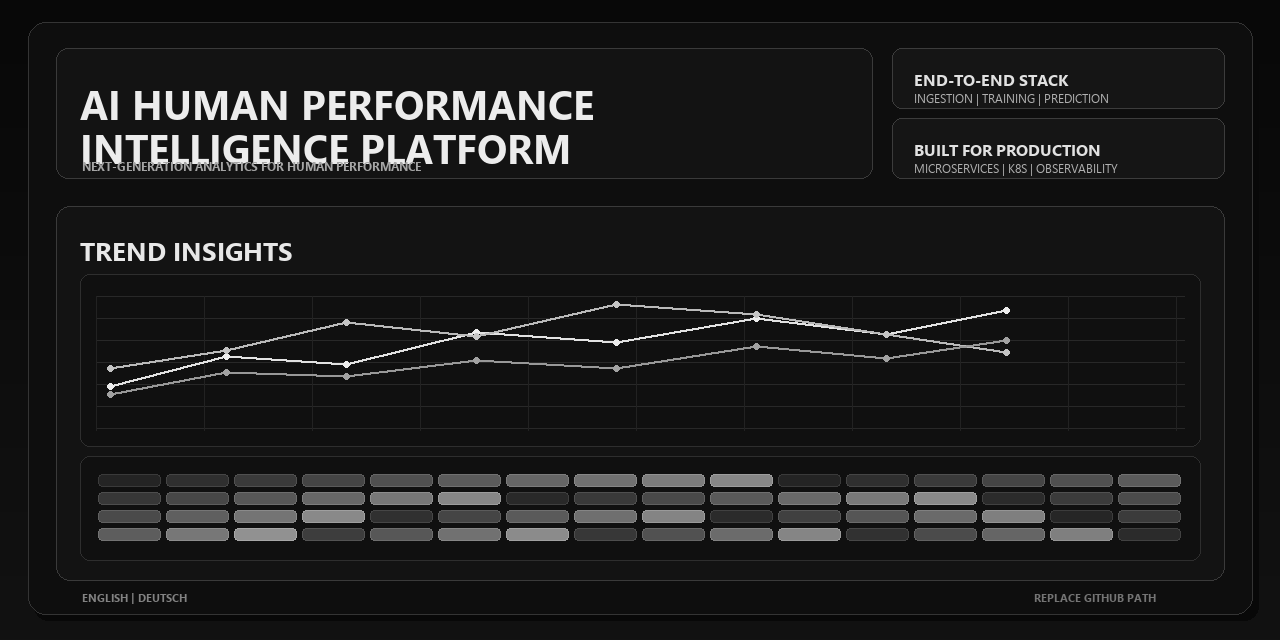
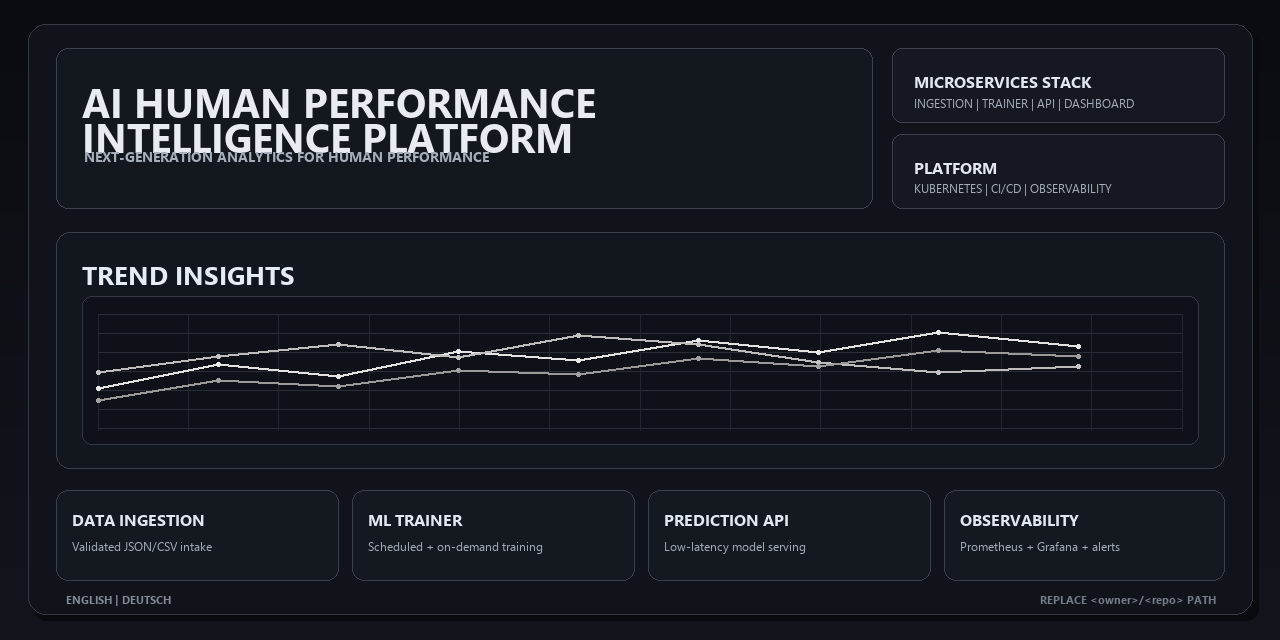
Rebuild project visuals from scratch with a clean dark design.
Replace the previous banner and GIF with a new layout focused on the platform workflow while keeping typography spacing safe to prevent text overlap.

diff --git a/scripts/generate_customer_support_assets.py b/scripts/generate_customer_support_assets.py
@@ -1,5 +1,6 @@
 from __future__ import annotations
 
+import math
 from pathlib import Path
 from PIL import Image, ImageDraw, ImageFont
 
@@ -22,47 +23,38 @@ def load_font(size: int, bold: bool = False):
     return ImageFont.load_default()
 
 
-def gray(v: int) -> tuple[int, int, int]:
-    return (v, v, v)
-
-
 def lerp(a: int, b: int, t: float) -> int:
     return int(a + (b - a) * t)
 
 
-def gradient(size: tuple[int, int], top: int, bottom: int) -> Image.Image:
+def gradient(size: tuple[int, int], top: tuple[int, int, int], bottom: tuple[int, int, int]) -> Image.Image:
     w, h = size
-    img = Image.new("RGB", size)
-    px = img.load()
+    image = Image.new("RGB", size)
+    px = image.load()
     for y in range(h):
-        value = lerp(top, bottom, y / max(h - 1, 1))
-        c = gray(value)
+        t = y / max(1, h - 1)
+        c = (
+            lerp(top[0], bottom[0], t),
+            lerp(top[1], bottom[1], t),
+            lerp(top[2], bottom[2], t),
+        )
         for x in range(w):
             px[x, y] = c
-    return img
+    return image
 
 
-def rounded(draw: ImageDraw.ImageDraw, box, radius=14, fill=None, outline=None, width=1):
+def rounded(draw: ImageDraw.ImageDraw, box, radius=12, fill=None, outline=None, width=1):
     draw.rounded_rectangle(box, radius=radius, fill=fill, outline=outline, width=width)
 
 
-def shadow(draw: ImageDraw.ImageDraw, box, offset=5):
+def shadow(draw: ImageDraw.ImageDraw, box, offset=4):
     x1, y1, x2, y2 = box
-    rounded(draw, (x1 + offset, y1 + offset, x2 + offset, y2 + offset), radius=14, fill=gray(8))
+    rounded(draw, (x1 + offset, y1 + offset, x2 + offset, y2 + offset), radius=12, fill=(8, 10, 14))
 
 
-def draw_line_graph(draw: ImageDraw.ImageDraw, box, tone: int, variant: int = 0):
-    x1, y1, x2, y2 = box
-    if variant == 0:
-        points = [(x1 + 14, y2 - 44), (x1 + 130, y2 - 74), (x1 + 250, y2 - 66), (x1 + 380, y2 - 98), (x1 + 520, y2 - 88), (x1 + 660, y2 - 112), (x1 + 790, y2 - 96), (x1 + 910, y2 - 120)]
-    elif variant == 1:
-        points = [(x1 + 14, y2 - 62), (x1 + 130, y2 - 80), (x1 + 250, y2 - 108), (x1 + 380, y2 - 94), (x1 + 520, y2 - 126), (x1 + 660, y2 - 116), (x1 + 790, y2 - 96), (x1 + 910, y2 - 78)]
-    else:
-        points = [(x1 + 14, y2 - 36), (x1 + 130, y2 - 58), (x1 + 250, y2 - 54), (x1 + 380, y2 - 70), (x1 + 520, y2 - 62), (x1 + 660, y2 - 84), (x1 + 790, y2 - 72), (x1 + 910, y2 - 90)]
-
-    draw.line(points, fill=gray(tone), width=3)
-    for p in points:
-        draw.ellipse((p[0] - 3, p[1] - 3, p[0] + 3, p[1] + 3), fill=gray(min(242, tone + 10)))
+def text_h(draw: ImageDraw.ImageDraw, text: str, font) -> int:
+    bbox = draw.textbbox((0, 0), text, font=font)
+    return bbox[3] - bbox[1]
 
 
 def draw_heatmap(draw: ImageDraw.ImageDraw, box):
@@ -75,126 +67,171 @@ def draw_heatmap(draw: ImageDraw.ImageDraw, box):
             tone = 36 + ((r * 19 + c * 11 + r * c * 5) % 110)
             cx1 = x1 + c * (cell_w + gap)
             cy1 = y1 + r * (cell_h + gap)
-            rounded(draw, (cx1, cy1, cx1 + cell_w, cy1 + cell_h), radius=4, fill=gray(tone), outline=gray(min(210, tone + 22)), width=1)
+            rounded(
+                draw,
+                (cx1, cy1, cx1 + cell_w, cy1 + cell_h),
+                radius=4,
+                fill=(tone, tone, tone),
+                outline=(min(210, tone + 22),) * 3,
+                width=1,
+            )
 
 
-def generate_banner() -> None:
-    img = gradient((1280, 640), 8, 18)
+def draw_banner() -> None:
+    img = gradient((1280, 640), (10, 12, 17), (18, 21, 28))
     draw = ImageDraw.Draw(img)
 
-    shadow(draw, (28, 22, 1252, 614), offset=6)
-    rounded(draw, (28, 22, 1252, 614), radius=18, fill=gray(14), outline=gray(52), width=1)
+    outer = (28, 24, 1252, 614)
+    shadow(draw, outer, offset=6)
+    rounded(draw, outer, radius=18, fill=(16, 19, 25), outline=(52, 57, 66), width=1)
 
-    rounded(draw, (56, 48, 872, 178), radius=12, fill=gray(19), outline=gray(58), width=1)
-    draw.text((80, 76), "AI HUMAN PERFORMANCE", font=load_font(40, bold=True), fill=gray(236))
-    draw.text((80, 120), "INTELLIGENCE PLATFORM", font=load_font(40, bold=True), fill=gray(236))
-    draw.text((82, 158), "NEXT-GENERATION ANALYTICS FOR HUMAN PERFORMANCE", font=load_font(12, bold=True), fill=gray(165))
+    title_panel = (56, 48, 872, 208)
+    rounded(draw, title_panel, radius=12, fill=(19, 23, 30), outline=(60, 66, 76), width=1)
+    title_font = load_font(40, bold=True)
+    sub_font = load_font(14, bold=True)
 
-    rounded(draw, (892, 48, 1224, 108), radius=10, fill=gray(21), outline=gray(60), width=1)
-    rounded(draw, (892, 118, 1224, 178), radius=10, fill=gray(21), outline=gray(60), width=1)
-    draw.text((914, 68), "END-TO-END STACK", font=load_font(16, bold=True), fill=gray(225))
-    draw.text((914, 90), "INGESTION | TRAINING | PREDICTION", font=load_font(12), fill=gray(176))
-    draw.text((914, 138), "BUILT FOR PRODUCTION", font=load_font(16, bold=True), fill=gray(225))
-    draw.text((914, 160), "MICROSERVICES | K8S | OBSERVABILITY", font=load_font(12), fill=gray(176))
+    y = 74
+    for line in ["AI HUMAN PERFORMANCE", "INTELLIGENCE PLATFORM"]:
+        draw.text((82, y), line, font=title_font, fill=(232, 236, 242))
+        y += text_h(draw, line, title_font) + 6
+    subtitle = "NEXT-GENERATION ANALYTICS FOR HUMAN PERFORMANCE"
+    draw.text((84, y + 2), subtitle, font=sub_font, fill=(166, 174, 186))
 
-    rounded(draw, (56, 206, 1224, 580), radius=14, fill=gray(19), outline=gray(58), width=1)
-    draw.text((80, 232), "TREND INSIGHTS", font=load_font(26, bold=True), fill=gray(232))
-    rounded(draw, (80, 274, 1200, 446), radius=10, fill=gray(16), outline=gray(46), width=1)
+    info1 = (892, 48, 1224, 122)
+    info2 = (892, 134, 1224, 208)
+    for panel in (info1, info2):
+        rounded(draw, panel, radius=10, fill=(21, 24, 32), outline=(60, 66, 76), width=1)
 
+    draw.text((914, 70), "MICROSERVICES STACK", font=load_font(16, bold=True), fill=(226, 232, 240))
+    draw.text((914, 95), "INGESTION | TRAINER | API | DASHBOARD", font=load_font(12), fill=(165, 174, 186))
+    draw.text((914, 156), "PLATFORM", font=load_font(16, bold=True), fill=(226, 232, 240))
+    draw.text((914, 180), "KUBERNETES | CI/CD | OBSERVABILITY", font=load_font(12), fill=(165, 174, 186))
+
+    trend = (56, 232, 1224, 468)
+    rounded(draw, trend, radius=14, fill=(18, 22, 29), outline=(58, 64, 74), width=1)
+    draw.text((82, 256), "TREND INSIGHTS", font=load_font(26, bold=True), fill=(230, 236, 244))
+
+    chart_box = (82, 296, 1198, 444)
+    rounded(draw, chart_box, radius=10, fill=(14, 17, 23), outline=(50, 56, 66), width=1)
+
+    cx1, cy1, cx2, cy2 = 98, 314, 1182, 430
     for i in range(7):
-        y = 296 + i * 22
-        draw.line((96, y, 1184, y), fill=gray(40), width=1)
-    for i in range(11):
-        x = 96 + i * 108
-        draw.line((x, 296, x, 430), fill=gray(34), width=1)
+        y_grid = cy1 + i * 19
+        draw.line((cx1, y_grid, cx2, y_grid), fill=(40, 45, 54), width=1)
+    for i in range(13):
+        x_grid = cx1 + int((cx2 - cx1) * i / 12)
+        draw.line((x_grid, cy1, x_grid, cy2), fill=(34, 39, 47), width=1)
 
-    draw_line_graph(draw, (96, 296, 1184, 430), 226, 0)
-    draw_line_graph(draw, (96, 296, 1184, 430), 186, 1)
-    draw_line_graph(draw, (96, 296, 1184, 430), 152, 2)
+    line1 = [(cx1 + 0, cy2 - 42), (cx1 + 120, cy2 - 66), (cx1 + 240, cy2 - 54), (cx1 + 360, cy2 - 79), (cx1 + 480, cy2 - 70), (cx1 + 600, cy2 - 90), (cx1 + 720, cy2 - 78), (cx1 + 840, cy2 - 98), (cx1 + 980, cy2 - 84)]
+    line2 = [(cx1 + 0, cy2 - 58), (cx1 + 120, cy2 - 74), (cx1 + 240, cy2 - 86), (cx1 + 360, cy2 - 73), (cx1 + 480, cy2 - 95), (cx1 + 600, cy2 - 86), (cx1 + 720, cy2 - 68), (cx1 + 840, cy2 - 58), (cx1 + 980, cy2 - 64)]
+    line3 = [(cx1 + 0, cy2 - 30), (cx1 + 120, cy2 - 50), (cx1 + 240, cy2 - 44), (cx1 + 360, cy2 - 60), (cx1 + 480, cy2 - 56), (cx1 + 600, cy2 - 72), (cx1 + 720, cy2 - 64), (cx1 + 840, cy2 - 80), (cx1 + 980, cy2 - 74)]
+    for points, tone in [(line1, 226), (line2, 188), (line3, 154)]:
+        draw.line(points, fill=(tone, tone, tone), width=3)
+        for p in points:
+            draw.ellipse((p[0] - 2, p[1] - 2, p[0] + 2, p[1] + 2), fill=(min(240, tone + 8),) * 3)
 
-    rounded(draw, (80, 456, 1200, 560), radius=10, fill=gray(16), outline=gray(46), width=1)
-    draw_heatmap(draw, (98, 474, 1182, 542))
-    draw.text((82, 590), "ENGLISH | DEUTSCH", font=load_font(11, bold=True), fill=gray(130))
-    draw.text((1034, 590), "REPLACE GITHUB PATH", font=load_font(11, bold=True), fill=gray(116))
+    modules = [(56, 490, 338, 580), (352, 490, 634, 580), (648, 490, 930, 580), (944, 490, 1224, 580)]
+    labels = [("DATA INGESTION", "Validated JSON/CSV intake"), ("ML TRAINER", "Scheduled + on-demand training"), ("PREDICTION API", "Low-latency model serving"), ("OBSERVABILITY", "Prometheus + Grafana + alerts")]
+    for panel, (head, body) in zip(modules, labels):
+        rounded(draw, panel, radius=12, fill=(20, 24, 31), outline=(58, 64, 74), width=1)
+        draw.text((panel[0] + 16, panel[1] + 18), head, font=load_font(16, bold=True), fill=(226, 232, 240))
+        draw.text((panel[0] + 16, panel[1] + 48), body, font=load_font(12), fill=(166, 174, 186))
+
+    draw.text((66, 592), "ENGLISH | DEUTSCH", font=load_font(11, bold=True), fill=(130, 138, 150))
+    draw.text((1040, 592), "REPLACE <owner>/<repo> PATH", font=load_font(11, bold=True), fill=(116, 124, 136))
 
     img.save(ASSETS / "banner.png", format="PNG")
 
 
-def dashboard_slide(title: str, subtitle: str, metrics: list[tuple[str, str]], variant: int) -> Image.Image:
-    img = gradient((1280, 720), 8, 18)
+def draw_metric_card(draw: ImageDraw.ImageDraw, x: int, label: str, value: str):
+    panel = (x, 154, x + 274, 286)
+    rounded(draw, panel, radius=12, fill=(21, 25, 32), outline=(60, 66, 76), width=1)
+    draw.text((x + 16, 178), label.upper(), font=load_font(14, bold=True), fill=(166, 174, 186))
+    draw.text((x + 16, 220), value, font=load_font(36, bold=True), fill=(232, 236, 242))
+
+
+def gif_frame(step: int, total: int) -> Image.Image:
+    img = gradient((1280, 720), (9, 12, 18), (18, 21, 28))
     draw = ImageDraw.Draw(img)
 
-    shadow(draw, (30, 22, 1248, 694), offset=6)
-    rounded(draw, (30, 22, 1248, 694), radius=16, fill=gray(14), outline=gray(54), width=1)
+    outer = (30, 22, 1248, 694)
+    shadow(draw, outer, offset=6)
+    rounded(draw, outer, radius=16, fill=(16, 19, 25), outline=(54, 60, 70), width=1)
 
-    # Title without emoji, matching the "remove emoji" baseline.
-    rounded(draw, (58, 44, 1220, 126), radius=12, fill=gray(19), outline=gray(58), width=1)
-    draw.text((84, 68), title, font=load_font(42, bold=True), fill=gray(236))
-    draw.text((86, 108), subtitle, font=load_font(20), fill=gray(168))
+    rounded(draw, (58, 44, 1220, 126), radius=12, fill=(19, 23, 30), outline=(60, 66, 76), width=1)
+    draw.text((84, 68), "AI HUMAN PERFORMANCE DASHBOARD", font=load_font(42, bold=True), fill=(232, 236, 242))
 
-    x = 66
-    for label, value in metrics:
-        rounded(draw, (x, 152, x + 276, 286), radius=14, fill=gray(22), outline=gray(60), width=1)
-        draw.text((x + 18, 178), label.upper(), font=load_font(14, bold=True), fill=gray(166))
-        draw.text((x + 18, 220), value, font=load_font(36, bold=True), fill=gray(236))
-        x += 294
+    phase = step / max(1, total - 1)
+    predictions = 5124 + int(phase * 86)
+    score = 89.1 + 0.4 * math.sin(phase * math.pi * 2.0)
+    active = 150 + int(phase * 6)
 
-    rounded(draw, (66, 314, 1214, 668), radius=14, fill=gray(18), outline=gray(56), width=1)
-    draw.text((92, 340), "Trend Overview", font=load_font(24, bold=True), fill=gray(228))
-    graph_box = (92, 380, 1188, 566)
-    rounded(draw, graph_box, radius=10, fill=gray(15), outline=gray(44), width=1)
+    draw_metric_card(draw, 66, "Total Predictions", f"{predictions:,}")
+    draw_metric_card(draw, 356, "Latest Score", f"{score:.1f}")
+    draw_metric_card(draw, 646, "Active Subjects", f"{active}+")
+    draw_metric_card(draw, 936, "Model Version", "v2.1")
 
-    gx1, gy1, gx2, gy2 = 108, 396, 1172, 550
+    rounded(draw, (66, 314, 914, 668), radius=14, fill=(18, 22, 29), outline=(56, 62, 72), width=1)
+    draw.text((92, 340), "Trend Overview", font=load_font(24, bold=True), fill=(228, 234, 242))
+
+    chart = (92, 378, 888, 544)
+    rounded(draw, chart, radius=10, fill=(14, 17, 23), outline=(48, 54, 64), width=1)
+    gx1, gy1, gx2, gy2 = 108, 394, 872, 528
     for i in range(7):
-        y = gy1 + i * 22
-        draw.line((gx1, y, gx2, y), fill=gray(40), width=1)
-    for i in range(13):
-        x_grid = gx1 + int((gx2 - gx1) * i / 12)
-        draw.line((x_grid, gy1, x_grid, gy2), fill=gray(34), width=1)
+        y_grid = gy1 + i * 22
+        draw.line((gx1, y_grid, gx2, y_grid), fill=(40, 45, 54), width=1)
+    for i in range(11):
+        x_grid = gx1 + int((gx2 - gx1) * i / 10)
+        draw.line((x_grid, gy1, x_grid, gy2), fill=(34, 39, 47), width=1)
 
-    draw_line_graph(draw, (gx1, gy1, gx2, gy2), 226, variant)
-    draw_line_graph(draw, (gx1, gy1, gx2, gy2), 190, (variant + 1) % 3)
-    draw_line_graph(draw, (gx1, gy1, gx2, gy2), 156, (variant + 2) % 3)
+    offset = int(phase * 22)
+    p1 = [(gx1 + 0, gy2 - 44 + offset // 8), (gx1 + 86, gy2 - 66), (gx1 + 172, gy2 - 58), (gx1 + 258, gy2 - 82), (gx1 + 344, gy2 - 76), (gx1 + 430, gy2 - 94), (gx1 + 516, gy2 - 82), (gx1 + 602, gy2 - 102), (gx1 + 688, gy2 - 90), (gx1 + 764, gy2 - 108 + offset // 10)]
+    p2 = [(gx1 + 0, gy2 - 62), (gx1 + 86, gy2 - 78), (gx1 + 172, gy2 - 88), (gx1 + 258, gy2 - 76), (gx1 + 344, gy2 - 96), (gx1 + 430, gy2 - 88), (gx1 + 516, gy2 - 72), (gx1 + 602, gy2 - 62), (gx1 + 688, gy2 - 66), (gx1 + 764, gy2 - 58)]
+    p3 = [(gx1 + 0, gy2 - 34), (gx1 + 86, gy2 - 52), (gx1 + 172, gy2 - 46), (gx1 + 258, gy2 - 62), (gx1 + 344, gy2 - 56), (gx1 + 430, gy2 - 72), (gx1 + 516, gy2 - 66), (gx1 + 602, gy2 - 80), (gx1 + 688, gy2 - 76), (gx1 + 764, gy2 - 86)]
+    for points, tone in [(p1, 228), (p2, 190), (p3, 156)]:
+        draw.line(points, fill=(tone, tone, tone), width=3)
+        for p in points:
+            draw.ellipse((p[0] - 2, p[1] - 2, p[0] + 2, p[1] + 2), fill=(min(242, tone + 8),) * 3)
 
-    rounded(draw, (92, 578, 1188, 654), radius=10, fill=gray(15), outline=gray(44), width=1)
-    draw_heatmap(draw, (108, 596, 1172, 640))
+    heat = (92, 560, 888, 654)
+    rounded(draw, heat, radius=10, fill=(14, 17, 23), outline=(48, 54, 64), width=1)
+    draw_heatmap(draw, (108, 578, 872, 640))
+
+    rounded(draw, (932, 314, 1214, 668), radius=14, fill=(18, 22, 29), outline=(56, 62, 72), width=1)
+    draw.text((954, 340), "Workflow", font=load_font(24, bold=True), fill=(228, 234, 242))
+    steps = ["INGESTION", "TRAINING", "PREDICTION", "MONITORING"]
+    active_idx = min(3, int(phase * 4.0))
+    y = 390
+    for i, label in enumerate(steps):
+        panel = (954, y, 1192, y + 56)
+        tone_fill = (35, 39, 47) if i == active_idx else (22, 26, 34)
+        tone_text = (236, 240, 246) if i == active_idx else (170, 178, 190)
+        rounded(draw, panel, radius=10, fill=tone_fill, outline=(66, 72, 82), width=1)
+        draw.text((972, y + 18), label, font=load_font(16, bold=True), fill=tone_text)
+        y += 68
+
+    status = ["Data validation complete", "Model retrained successfully", "Predictions served to API", "Metrics scraped and alerts healthy"][active_idx]
+    rounded(draw, (954, 598, 1192, 654), radius=10, fill=(20, 24, 31), outline=(58, 64, 74), width=1)
+    draw.text((970, 620), status, font=load_font(12), fill=(174, 182, 194))
 
     return img
 
 
-def generate_gif() -> None:
-    slides = [
-        dashboard_slide(
-            "AI HUMAN PERFORMANCE DASHBOARD",
-            "Model Predictions",
-            [("Total Predictions", "5,124"), ("Latest Score", "89.1"), ("Active Subjects", "150+"), ("Model Version", "v2.1")],
-            0,
-        ),
-        dashboard_slide(
-            "AI HUMAN PERFORMANCE DASHBOARD",
-            "Performance Metrics",
-            [("Test R²", "0.93"), ("Test MAE", "2.96"), ("Test RMSE", "4.71"), ("Req/Sec", "18.4")],
-            1,
-        ),
-        dashboard_slide(
-            "AI HUMAN PERFORMANCE DASHBOARD",
-            "Historical Data",
-            [("Records", "74,920"), ("Date Range", "36 months"), ("Avg Recovery", "7.8"), ("Avg Stress", "4.4")],
-            2,
-        ),
-    ]
-    slides[0].save(
+def draw_gif() -> None:
+    total = 32
+    frames = [gif_frame(i, total) for i in range(total)]
+    frames[0].save(
         ASSETS / "demo.gif",
         save_all=True,
-        append_images=slides[1:],
-        duration=[1400, 1400, 1400],
+        append_images=frames[1:],
+        duration=180,
         loop=0,
         optimize=True,
     )
 
 
 if __name__ == "__main__":
-    generate_banner()
-    generate_gif()
+    draw_banner()
+    draw_gif()
     print(f"Generated: {ASSETS / 'banner.png'}")
     print(f"Generated: {ASSETS / 'demo.gif'}")
